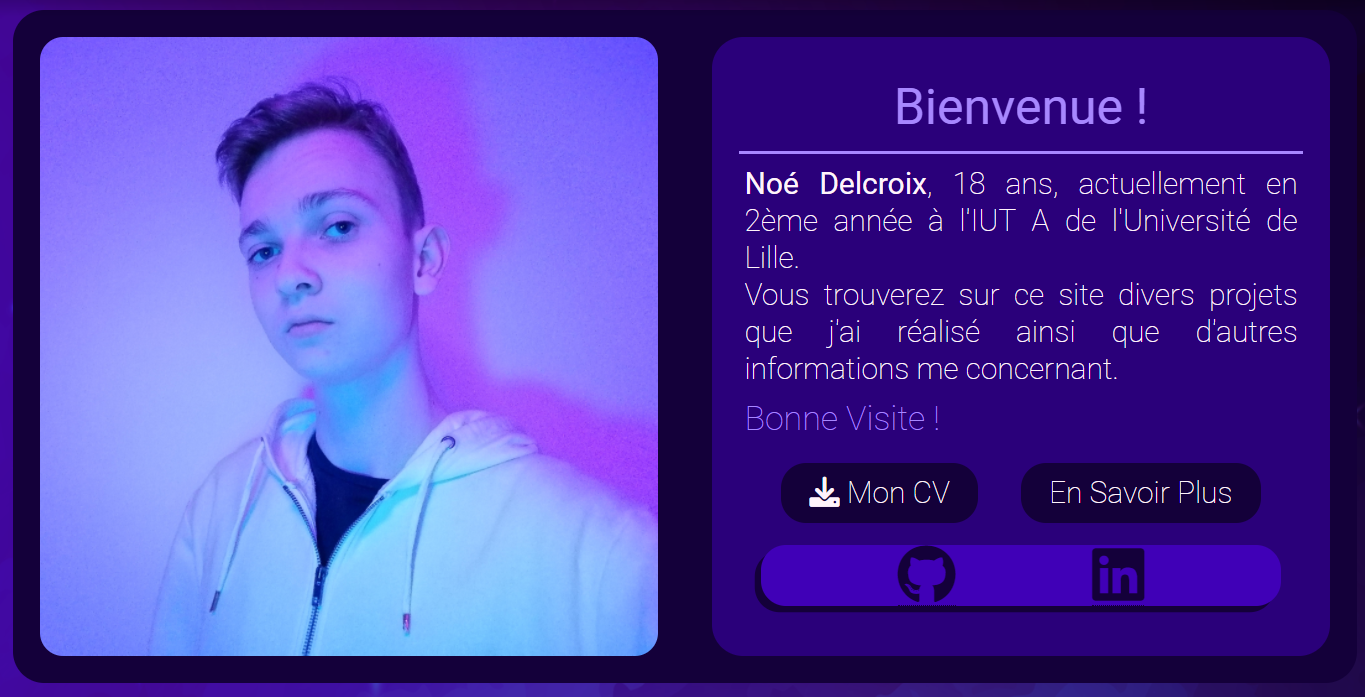
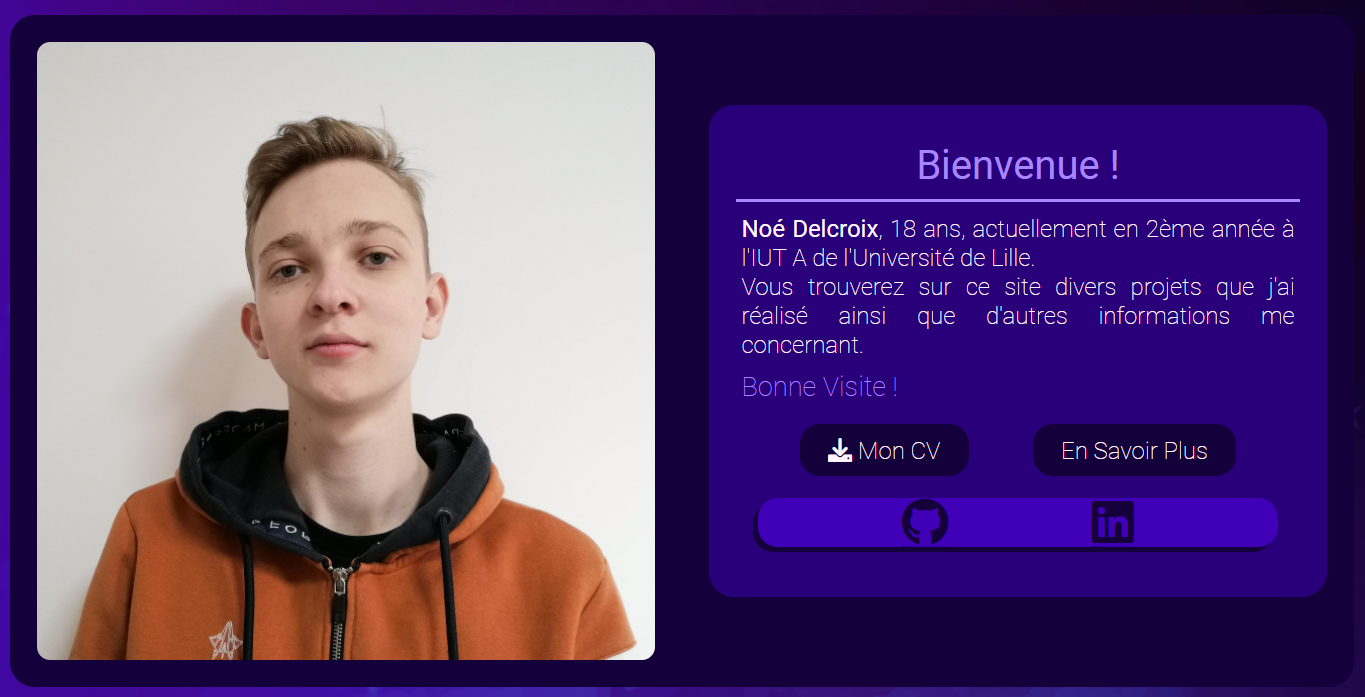
Un poil plus pro

diff --git a/index.html b/index.html
@@ -52,7 +52,7 @@
 
     <section id="welcome-section">
         <div class="welcome">
-            <img class="photo" src="ressources/images/photo un peu moins pro.png" alt="Photo Pro">
+            <img class="photo" src="ressources/images/Photo Pro.jpg" alt="Photo Pro">
 
             <div class="welcome-info">
                 <h1>Bienvenue !</h1>
@@ -283,8 +283,7 @@
                 <img src="ressources/images/musique.png" alt="bg">
                 <div class="loisir-overlay">
                     <h1> <i class="fa-solid fa-music"></i> Musique <i class="fa-solid fa-music"></i> </h1>
-                    <p>Depuis quelques années, je m'interesse à la compostion et à la production de musique sur FL Studio. Je créé principalement de l'électro et des OST de jeux vidéos, même si j'aime toucher à tous les styles.<br>Je publie parfois mes créations sur Soundcloud</p>
-                    <a href="https://soundcloud.com/n0_way" target="_blank"><i class="fab fa-soundcloud"></i> Mon Soundcloud</a>
+                    <p>Depuis quelques années, je m'interesse à la compostion et à la production de musique sur FL Studio. Je créé principalement de l'électro et des OST de jeux vidéos, même si j'aime toucher à tous les styles.</p>
                 </div>
             </div>
 
